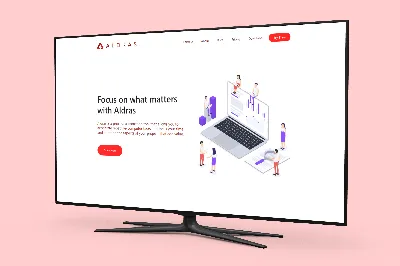
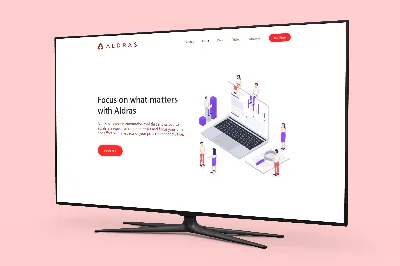
add aldras reponsive imgs

diff --git a/portfolio-aldras.html b/portfolio-aldras.html
@@ -87,7 +87,7 @@
 		<!-- Main -->
 		<div id="main">
 			<div class="inner subpage">
-				<img srcset="./images/portfolio/aldras/logo_125_w.webp 125w" sizes="7vw" loading="lazy" decoding="async"
+				<img srcset="./images/portfolio/aldras/logo_200_w.webp 200w" sizes="7vw" loading="lazy" decoding="async"
 					src="./images/portfolio/aldras/logo.png" alt="Aldras Logo"
 					style="width: 7%; min-width: 100px; display: block; margin: auto; margin-top: 2em; margin-bottom: 20px;">
 				<h2 class="align-center subpage" style="margin-top: 0;">Aldras Automation</h2>
@@ -116,7 +116,11 @@
 					</div>
 					<div class="half_image_column">
 						<a href="https://aldras.netlify.com/about" target="_blank">
-							<img src="images/portfolio/aldras/programming.png" alt="Aldras Programming">
+							<img srcset="
+									./images/portfolio/aldras/programming_400_w.webp 400w,
+									./images/portfolio/aldras/programming_1000_w.webp 800w" sizes="(max-width: 980px) 100vw, 55vw" loading="lazy"
+								decoding="async" src="./images/portfolio/aldras/programming.png"
+								alt="Aldras Programming">
 						</a>
 					</div>
 				</div>
@@ -127,7 +131,12 @@
 					<div class="half_image_column" style="display: flex;">
 						<div style="width: 90%; margin: auto;">
 							<a href="https://aldras.netlify.com/features" target="_blank">
-								<img src="images/portfolio/aldras/application.PNG" alt="Aldras Application"></a>
+								<img srcset="
+									./images/portfolio/aldras/application_400_w.webp 400w,
+									./images/portfolio/aldras/application_1000_w.webp 800w" sizes="(max-width: 980px) 100vw, 55vw" loading="lazy"
+									decoding="async" src="./images/portfolio/aldras/application.png"
+									alt="Aldras Application">
+							</a>
 						</div>
 					</div>
 					<div class="half_text_column">
@@ -164,7 +173,10 @@
 					</div>
 					<div class="half_image_column">
 						<a href="https://aldras.netlify.com/pricing" target="_blank">
-							<img src="images/portfolio/aldras/website.png" alt="Aldras Website">
+							<img srcset="
+								./images/portfolio/aldras/website_400_w.webp 400w,
+								./images/portfolio/aldras/website_1000_w.webp 800w" sizes="(max-width: 980px) 100vw, 55vw" loading="lazy"
+								decoding="async" src="./images/portfolio/aldras/website.png" alt="Aldras Website">
 						</a>
 					</div>
 				</div>

diff --git a/_top_portfolio.html b/_top_portfolio.html
@@ -53,9 +53,10 @@
 <div class="row">
     <div class="image_column">
         <a href="portfolio-aldras.html">
-            <img srcset="
+            <img
+                srcset="
                 ./images/portfolio/aldras/aldras_400_w.webp 400w,
-                ./images/portfolio/aldras/aldras_800_w.webp 800w"
+                ./images/portfolio/aldras/aldras_1000_w.webp 800w"
                 sizes="(max-width: 980px) 100vw, 40vw" loading="lazy" decoding="async"
                 src="./images/portfolio/aldras/aldras.png" alt="Aldras">
         </a>

diff --git a/images/image_generator.py b/images/image_generator.py
@@ -72,5 +72,5 @@ if __name__ == "__main__":
     convert_folder(
         r".\images\portfolio\salesforce", [400, 800], exclude=["team_lunch_orig.png"]
     )
-    convert_folder(r".\images\portfolio\aldras", [400, 800], exclude=["logo", "inspiration", "business", "application_icon"])
+    convert_folder(r".\images\portfolio\aldras", [400, 1000], exclude=["logo", "inspiration", "business", "application_icon"])
     convert_folder(r".\images\portfolio\aldras", [200], include=["logo", "inspiration", "business", "application_icon"])
